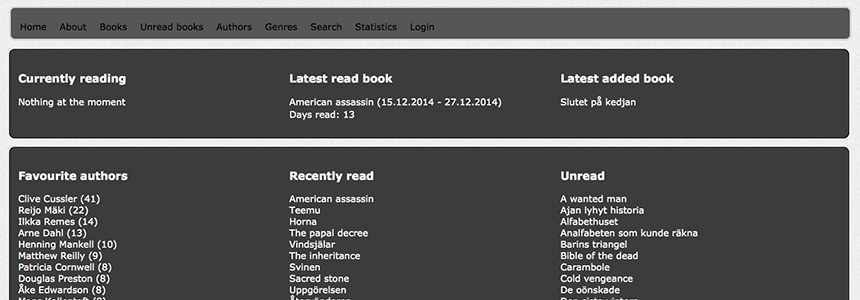
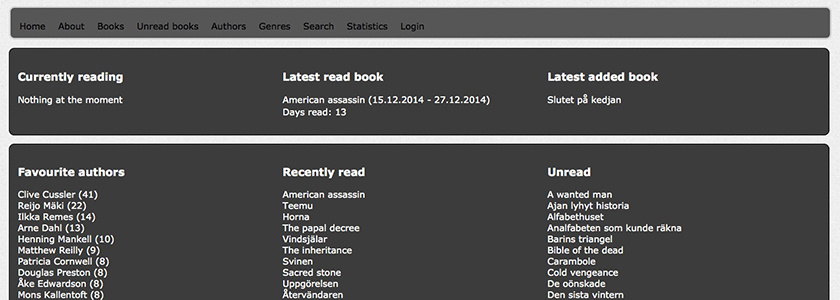
Added missing padding.

diff --git a/src/Jme/MainBundle/Resources/less/main.less b/src/Jme/MainBundle/Resources/less/main.less
@@ -123,6 +123,11 @@ a {
             background: #333;
             margin-bottom: 20px;
         }
+
+        img {
+            margin-bottom: 20px;
+            width: 100%;
+        }
     }
 }
 
@@ -184,7 +189,12 @@ article, section {
 
     .col {
         float: left;
-        width: 45%;
+        width: 40%;
+    }
+
+    .col1 {
+        width: 50%;
+        margin-right: 30px;
     }
 }
 

diff --git a/src/Jme/MainBundle/Menu/Builder.php b/src/Jme/MainBundle/Menu/Builder.php
@@ -57,7 +57,7 @@ class Builder extends ContainerAware
         $menu = $this->factory->createItem('root');
         $menu->setChildrenAttribute('class', 'nav navbar-nav');
 
-        $menu->addChild($this->translator->trans('menu.home'), ['uri' => $this->router->generate('jme_article_latest') . '#a-home'] );
+        $menu->addChild($this->translator->trans('menu.home'), ['uri' => $this->router->generate('jme_article_latest')] );
         $menu->addChild($this->translator->trans('menu.about'), ['uri' => $this->router->generate('jme_article_latest') . '#a-about'] );
         $menu->addChild($this->translator->trans('menu.projects'), ['uri' => $this->router->generate('jme_article_latest') . '#a-projects'] );
 

diff --git a/src/Jme/MainBundle/Component/Test/ServiceTestCase.php b/src/Jme/MainBundle/Component/Test/ServiceTestCase.php
@@ -42,7 +42,7 @@ class ServiceTestCase extends \PHPUnit_Framework_Testcase
         $this->kernel->boot();
 
         $this->container = $this->kernel->getContainer();
-        $this->entityManager = $this->container->get('doctrine')->getEntityManager();
+        $this->entityManager = $this->container->get('doctrine')->getManager();
         $this->fixtureFactory = new FixtureFactory($this->entityManager);
 
         $this->generateSchema();
